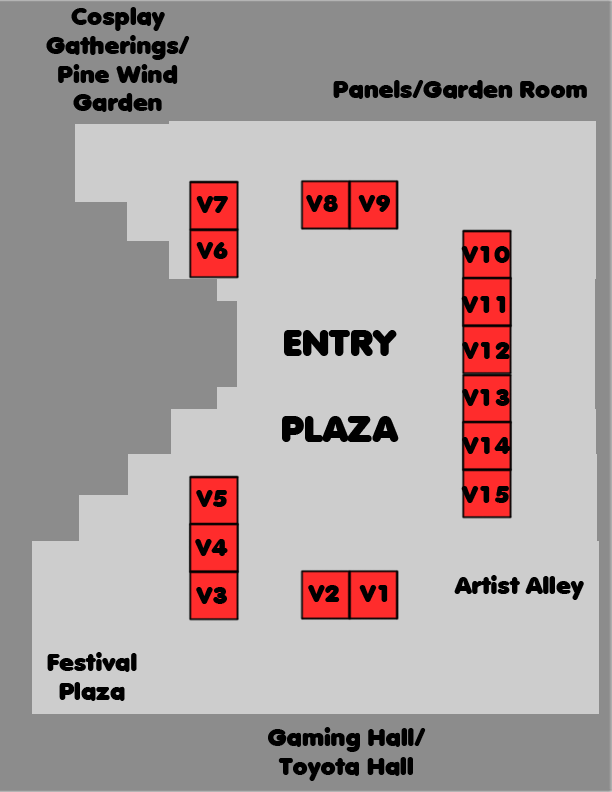
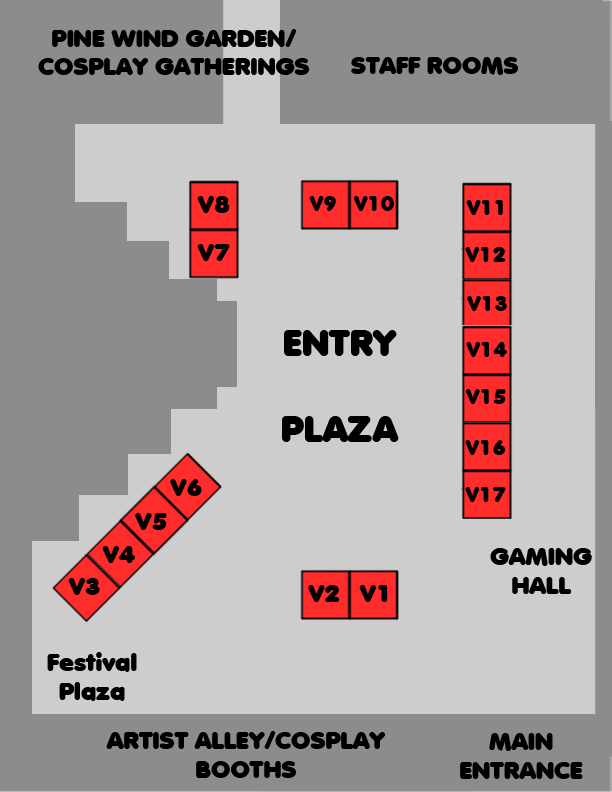
add vendors info

diff --git a/src/menupages/ArtistVendors.tsx b/src/menupages/ArtistVendors.tsx
@@ -18,7 +18,6 @@ import Modal from 'react-bootstrap/Modal';
 import { CircledBullets, nakanotheatre, shihori, odyssey, tam, artistalleymap, vendorsmap, torinoplazamap, placeholder } from '../Utils';
 
 import artistalley from "./../images/artistalley.jpg";
-import ace from "./../images/artistalley/ace.png";
 import marlo from "./../images/artistalley/MARLOWEMEMO.jpg";
 import rustyhermit from "./../images/artistalley/rustyhermit.jpg";
 import ckitten from "./../images/artistalley/ckitten.jpg";
@@ -26,7 +25,6 @@ import kuriarty from "./../images/artistalley/kuriarty.jpg";
 import fred from "./../images/artistalley/fred.png";
 import agi from "./../images/artistalley/agi.png";
 import pumplin from "./../images/artistalley/pumpking.jpg";
-import siliconcat from "./../images/artistalley/siliconcat.png";
 import xiaobbinc from "./../images/artistalley/xiaobb.avif";
 import essukaa from "./../images/artistalley/essukaa.webp";
 import anazel from "./../images/artistalley/anazel.jpg";
@@ -51,7 +49,6 @@ import gensokyoradio from "./../images/artistalley/gensokyoradio.jpg";
 import idolmatsuri from "./../images/artistalley/idolmatsuri.png";
 import rosecityanifest from "./../images/artistalley/rosecityanifest.jpg";
 import roninexpo from "./../images/artistalley/roninexpo.png";
-import kotori from "./../images/artistalley/kotori.jpg";
 
 import lyricalive from "./../images/artistalley/lyricalive.jpg";
 import gurugurumaru from "./../images/artistalley/gurugurumaru.jpg";
@@ -103,6 +100,18 @@ import panchamon from "./../images/artistalley/panchamon.jpg";
 import BRW from "./../images/artistalley/BRW.jpg";
 import cssrart from "./../images/artistalley/cssrart.jpg";
 
+import siliconcat from "./../images/artistalley/siliconcat.jpg";
+import matcha from "./../images/artistalley/matcha.jpg";
+import ace from "./../images/artistalley/ace.jpg";
+import ideafactory from "./../images/artistalley/ideafactory.jpg";
+import kotori from "./../images/artistalley/kotori.jpg";
+import fmanime from "./../images/artistalley/fmanime.jpg";
+import touhoufest from "./../images/artistalley/touhoufest.jpg";
+import kinocreations from "./../images/artistalley/kinocreations.jpg";
+import serapim from "./../images/artistalley/serapim.jpg";
+import whimsicalarchive from "./../images/artistalley/whimsicalarchive.jpg";
+import brainjuice from "./../images/artistalley/brainjuice.jpg";
+import sunameridrill from "./../images/artistalley/sunameridrill.jpg";
 
 import { GlobalTransformWrapper } from './ConCenter';
 import { neosanctum, maidacademy, suzukann } from "./../Utils";
@@ -163,78 +172,21 @@ let artistlist = [
 artistlist.sort((a,b) => a["location"].localeCompare(b["location"]));
 
 let vendors = [
-    {
-        "name": "Siliconcat",
-        "image": siliconcat,
-        "role": "Artist",
-        "website": "https://siliconcat.tumblr.com/tagged/my%20art",
-        "description": "",
-        "location": "Booth V15"
-    },
-    {
-        "name": "Art With Fred",
-        "image": fred,
-        "role": "Artist",
-        "website": "https://www.tiktok.com/@artwfred",
-        "description": "",
-        "location": "Booth V12"
-    },
-    {
-        "name": "Artist Collaboration Experience (ACE)",
-        "image": ace,
-        "role": "Artist",
-        "website": "https://www.artcollabexp.com/",
-        "description": "VENDOR",
-        "location": "Booth V10"
-    },
-    {
-        "name": "Lyrica Live",
-        "image": lyricalive,
-        "role": "Music",
-        "website": "https://lyricalive.carrd.co/",
-        "description": "VENDOR",
-        "location": "Booth V09"
-    },
-    {
-        "name": "Dichroic Purpillion",
-        "image": izakaya,
-        "role": "Game Dev",
-        "website": "https://store.steampowered.com/search/?developer=%E4%BA%8C%E8%89%B2%E5%B9%BD%E7%B4%AB%E8%9D%B6",
-        "description": "VENDOR",
-        "location": "Booth V08"
-    },
-    {
-        "name": "Pop Umai",
-        "image": popumai,
-        "role": "Vendor",
-        "website": "https://www.popumai.com/",
-        "description": "",
-        "location": "Booth V14"
-    },
-    {
-        "name": "loveboxf",
-        "image": loveboxf,
-        "role": "Artist",
-        "website":"https://www.pixiv.net/en/users/28004345",
-        "description":"",
-        "location":"Booth V13"
-    },
-    {
-        "name": "Maid Academy Cafe",
-        "image": maidacademy,
-        "role": "Vendor",
-        "website": "https://linktr.ee/maidacademy",
-        "description": "",
-        "location": "Booth V07"
-    },
-    {
-        "name": "Kotori's Shop / Showcas3",
-        "image": kotori,
-        "role": "Merch",
-        "website": "https://www.instagram.com/kotoris_shop_by_y/",
-        "description": "",
-        "location": "Booth V11"
-    }
+{"name": "Siliconcat", "image": siliconcat, "location": "V01", "website": "https://siliconcat.tumblr.com/tagged/my%20art", "role": "Artist"},
+{"name": "Matcha", "image": matcha, "location": "V02", "website": "https://x.com/matchach?lang=en", "role": "Artist"},
+{"name": "Artist Collaboration Experience", "image": ace, "location": "V03", "website": "https://www.artcollabexp.com/", "role": "Artist"},
+{"name": "Touhou Hobby Society", "image": placeholder, "location": "V04", "website": "", "role": "Merch"},
+{"name": "Idea Factory Intl.", "image": ideafactory, "location": "V05 & V06", "website": "https://ifi.games/", "role": "Games"},
+{"name": "Kotori's Shop by Y", "image": kotori, "location": "V07", "website": "https://www.instagram.com/kotoris_shop_by_y/", "role": "Merch"},
+{"name": "FMAnime Shop", "image": fmanime, "location": "V08", "website": "https://www.fm-anime.com/", "role": "Cosplay"},
+{"name": "TouhouFest Merch", "image": touhoufest, "location": "V09", "website": "https://www.touhoufest.org/store", "role": "Merch"},
+{"name": "TouhouFest Info Booth", "image": touhoufest, "location": "V10", "website": "https://schedule.touhoufest.org", "role": "Info"},
+{"name": "KinoKreations", "image": kinocreations, "location": "V11 & V12", "website": "https://kinokreations.myshopify.com/", "role": "Artist"},
+{"name": "Seraphim Complex", "image": serapim, "location": "V13", "website": "https://seraphimcomplex.com/", "role": "Merch"},
+{"name": "Whimsical Artchive ", "image": whimsicalarchive, "location": "V14", "website": "https://whimsicalartchive.carrd.co/", "role": "Artist"},
+{"name": "Stuffy Rabbit", "image": placeholder, "location": "V15", "website": "", "role": "Vendor"},
+{"name": "Brainjuice Art", "image": brainjuice, "location": "V16", "website": "https://www.brainjuiceart.com/", "role": "Artist"},
+{"name": "SunameriDrill", "image": sunameridrill, "location": "V17", "website": "https://www.instagram.com/sunameridrill/", "role": "Vendor"},
 ];
 vendors.sort((a,b) => a["location"].localeCompare(b["location"]));
 
@@ -506,29 +458,15 @@ export const artistVendorsPage = {
             </>)}
         </Row>
 
+        <h4>Vendors</h4>
+        <h5>Vendors Booth Map</h5>
+        <p>Pinch to focus in/zoom on the map as needed. Artist locations are denoted by the alphanumeric code next to them.</p>
 
-        <Row xs={1} md={2} className="mt-3">
-            <Col>
-                <h4>Vendors</h4>
-                <h5>Vendors Booth Map</h5>
-                <p>Pinch to focus in/zoom on the map as needed. Artist locations are denoted by the alphanumeric code next to them.</p>
-
-                <h5>Non-Vendors Booths</h5>
-                <p>These booths aren't actually vendors booths but due to their close proximity to the rest of the vendors are also listed here:</p>
-                <ul>
-                    <li><b>Booth V1</b>: TouhouFest Info Booth</li>
-                    <li><b>Booth V2</b>: Info Booth/Weapons Check</li>
-                    <li><b>Booth V3</b>: Cosplay Repair</li>
-                    <li><b>Booth V4</b>: Cosplay Ambassadors</li>
-                    <li><b>Booth V5</b>: Punderfull's Booth</li>
-                </ul>
-
-            </Col>
-            <Col>
+        <Row className="mt-3 justify-content-center">
+            <Col xs={12} md={8} className="text-center">
                 <GlobalTransformWrapper src={vendorsmap} caption="Map of Vendors"/>
             </Col>
         </Row>
-
 
         <h5>List of Vendors</h5>
         <p>The majority of the entries listed below are in vendors (denoted "Booth VXX").</p>

diff --git a/src/utilscripts/analyzeartists.py b/src/utilscripts/analyzeartists.py
@@ -7,10 +7,7 @@ def operate_func(row):
     output += f'"image": {row["image"]}, '
     output += f'"location": "{row["location"]}", '
     output += f'"website": "{row["website"]}", '
-    output += f'"description": ""'
-
-    for elem in row:
-        pass
+    output += f'"role": "{row['role']}"'
 
     return output + "}"
 
@@ -18,7 +15,10 @@ def generate_imports(imagename):
     return f'import {imagename} from "./../images/artistalley/{imagename}.jpg";'
 
 if __name__ == "__main__":
-    df = pd.read_csv("artists.csv").fillna("")
+    
+    name="vendors"
+
+    df = pd.read_csv("vendors.csv").fillna("")
     
     imports = df["image"].map(generate_imports)
 
@@ -27,7 +27,7 @@ if __name__ == "__main__":
             print(row, file=f)
 
     df = df.apply(operate_func, axis=1)
-    with open("artists.txt","w") as f:
+    with open("vendors.txt","w") as f:
         print("[", file=f)
         for row in df.tolist():
             print(f"{row},", file=f)
